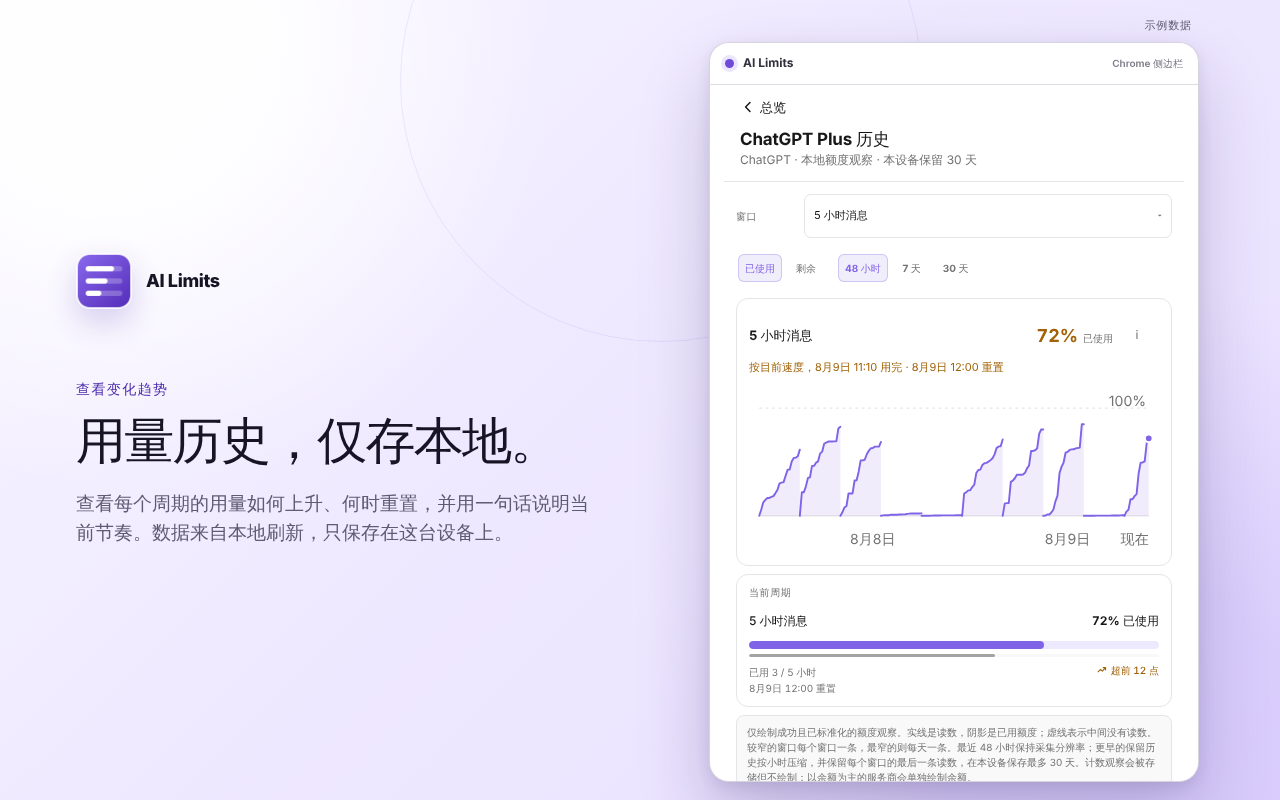
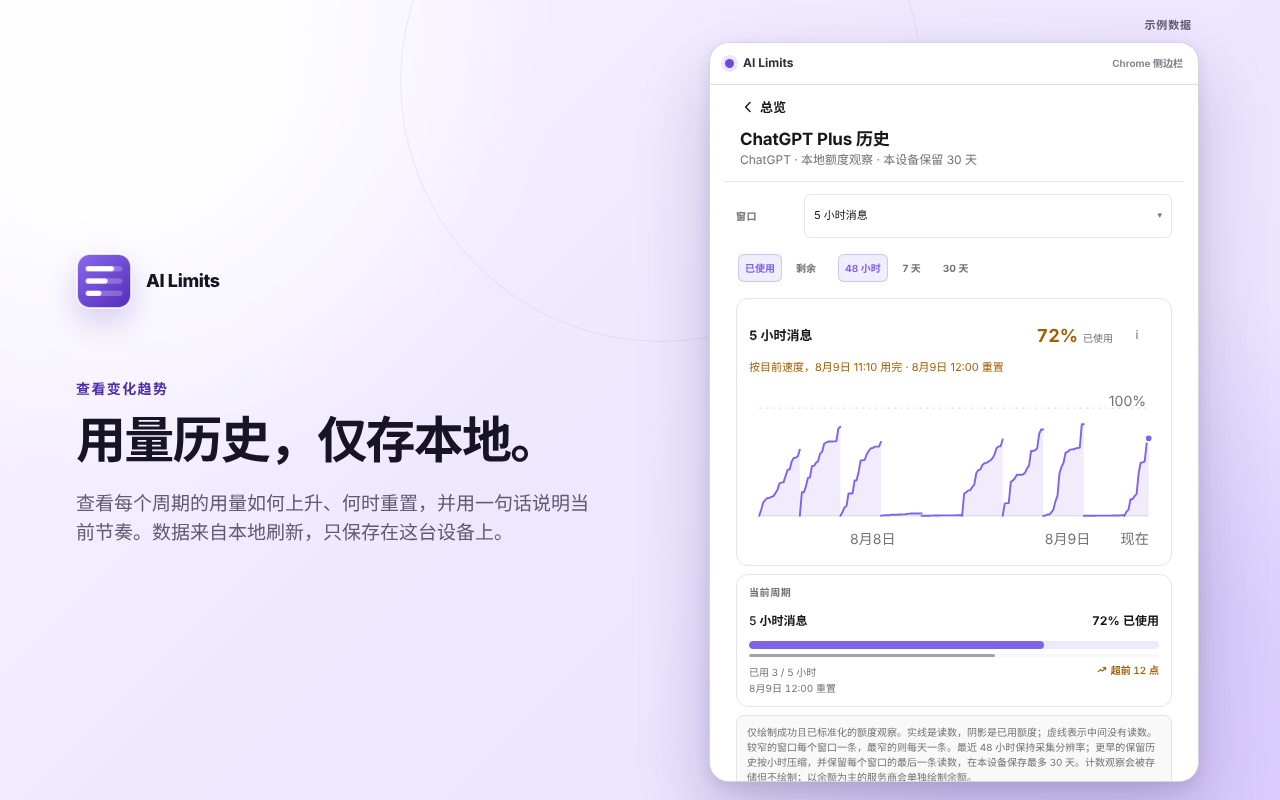
fix(store): correct Limited Use guidance, access wording, and Chinese artwork weight
- AGENTS.md: the Limited Use disclosure applies to any extension that
  handles user data; ours lives in PRIVACY.md. Note the CJK bold font the
  capture needs.
- 'only gets the Chrome access you approve for it' holds for providers with
  two origins or extra cookies/scripting permissions.
- Recapture the artwork with Noto Sans CJK so Chinese headings stay bold.

Claude-Session: https://claude.ai/code/session_011ZoMPZEegNxGgtSUJpabEh

diff --git a/store-assets/chrome-web-store/AGENTS.md b/store-assets/chrome-web-store/AGENTS.md
@@ -30,7 +30,7 @@ policies page wins):
 | Permission justifications | "Permission justifications" sections | One entry per permission. |
 | Privacy practices | "Data-disclosure answers" sections | Must match `PRIVACY.md` and real behavior. |
 | Homepage, support, privacy policy URLs | "Store configuration" | `https://get-ai-limits.com/`, `/support/`, `/privacy/`. The privacy URL goes in the dashboard's privacy field, never only in the description. |
-| Screenshots, promo tile | `store-assets/chrome-web-store/` (`zh_CN/` for Chinese) | 1 to 5 screenshots at 1280×800; small promo tile 440×280. Regenerate with `pnpm assets:store`. |
+| Screenshots, promo tile | `store-assets/chrome-web-store/` (`zh_CN/` for Chinese) | 1 to 5 screenshots; we use 1280×800 (640×400 is also accepted). Small promo tile 440×280. Regenerate with `pnpm assets:store`. |
 
 ## Content rules
 
@@ -51,7 +51,8 @@ policies page wins):
    enforces this.
 4. **No implied endorsement (policy).** Never suggest a provider authorizes,
    endorses, or produces AI Limits. Keep the non-affiliation sentence at the
-   end of both descriptions. Provider logos appear only inside the real product UI in screenshots, never as standalone artwork in the promo tile.
+   end of both descriptions. Provider logos appear only inside the real
+   product UI in screenshots, never as standalone artwork in the promo tile.
 5. **No status or superlative claims (policy).** No "Editor's Choice",
    "Number One", "best", "fastest", or comparisons with other extensions, in
    text or images.
@@ -64,13 +65,17 @@ policies page wins):
    sessions, API keys, and account labels, so say what it keeps and what it
    never reads (prompts, conversations), not that it reads "only usage".
    A privacy policy is required even though data stays local.
-8. **Limited Use statement.** Required only for data received from Google
-   APIs. AI Limits uses none today; add the statement to the site if that
-   changes.
+8. **Limited Use statement (policy).** Every extension that handles user
+   data must state, on its homepage or one click away, that its data use
+   complies with the Chrome Web Store User Data Policy, including the Limited
+   Use requirements. Ours is the "Limited use" section of `PRIVACY.md`,
+   published at `https://get-ai-limits.com/privacy/`. Keep it.
 9. **Screenshots show the current version (policy).** Regenerate the artwork
    whenever the UI, the provider count, or copy shown in it changes. Use the
    full 1280×800 frame, keep text short, and keep the icon, screenshots, and
-   promo tile visually consistent.
+   promo tile visually consistent. The Chinese artwork needs a CJK font with
+   a bold weight (for example Noto Sans CJK SC) on the capture machine, or
+   bold headings render as regular.
 10. **Locales say the same thing.** The Chinese listing may reword, but must
     not add or drop features. Don't publish a separate item per language.
 11. **Single purpose.** Keep the single-purpose text narrow and matching the

diff --git a/store-assets/chrome-web-store/listing-en.md b/store-assets/chrome-web-store/listing-en.md
@@ -66,7 +66,7 @@ WHY AI LIMITS
 • English and Simplified Chinese. The panel follows Chrome's language or can be pinned in Settings.
 
 23 SUPPORTED SERVICES
-AI Limits supports 23 AI services: chat and coding subscriptions, API platforms with credits or balances, and self-hosted API gateways. Connect only the ones you use; every connection is opt-in and only gets access to the site you approve for it. Subscription services use the account you're already signed in to in Chrome, while API services use a key you provide through a guided setup.
+AI Limits supports 23 AI services: chat and coding subscriptions, API platforms with credits or balances, and self-hosted API gateways. Connect only the ones you use; every connection is opt-in and only gets the Chrome access you approve for it. Subscription services use the account you're already signed in to in Chrome, while API services use a key you provide through a guided setup.
 
 See every supported service and what AI Limits shows for it:
 https://get-ai-limits.com/providers/
